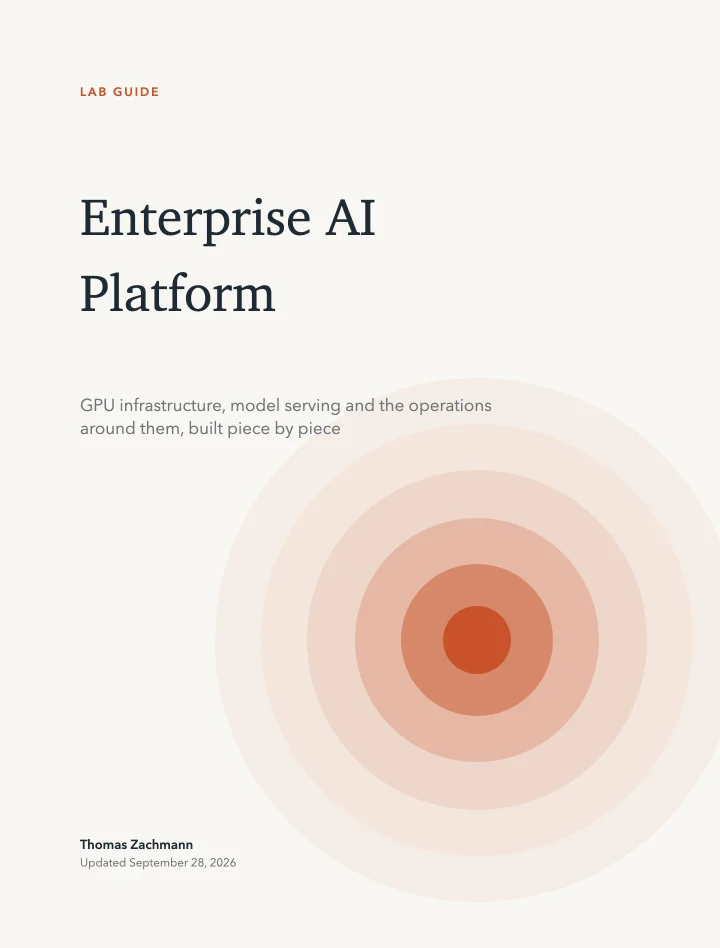
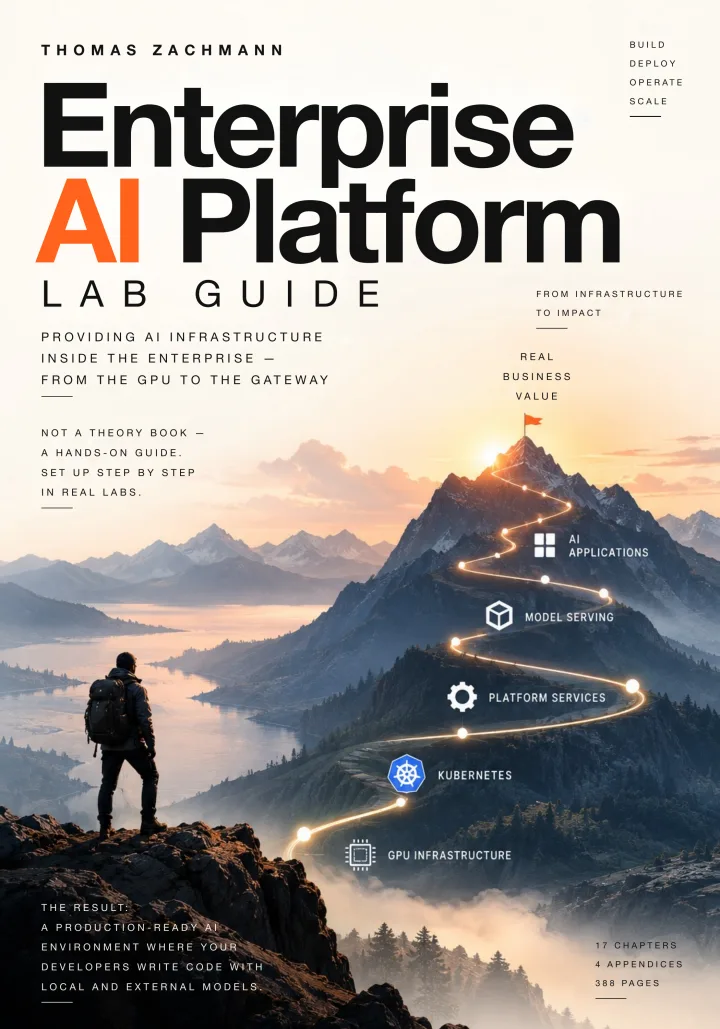
fix(nyrvex): Enterprise-AI-Platform wieder mit dem Leanpub-Cover
Das Cover aus b345306 (einheitlicher Stil) wird für dieses Buch auf
nyrvex.com zurückgenommen: wieder das Bergmotiv aus dem Leanpub-Umschlag
(aus 8f21012), 720x1029, Cache-Buster ?v=3.

diff --git a/sites/nyrvex/public/enterprise-ai-platform.html b/sites/nyrvex/public/enterprise-ai-platform.html
@@ -374,7 +374,7 @@
       <div class="mass"><span class="lbl">The book</span><span class="rule"></span></div>
       <div class="buch">
         <div class="buch-cover">
-          <img src="/img/enterprise-ai-platform.webp?v=2" width="720" height="948" alt="Cover of the Enterprise AI Platform Lab Guide">
+          <img src="/img/enterprise-ai-platform.webp?v=3" width="720" height="1029" alt="Cover of the Enterprise AI Platform Lab Guide">
         </div>
         <div class="buch-text">
           <h2>Somewhere there is a server with two GPUs</h2>
